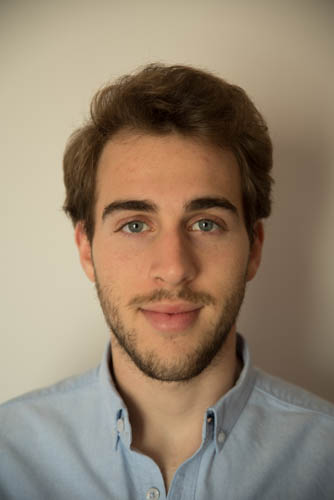
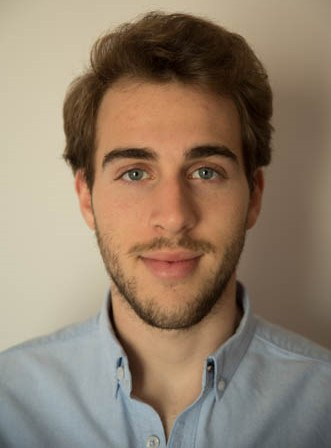
Small Changes

diff --git a/_layouts/default.html b/_layouts/default.html
@@ -18,7 +18,7 @@
         <h1><a href="{{ "/" | absolute_url }}">{{ site.title | default: site.github.repository_name }}</a></h1>
         
         {% if site.profile_img %}
-          <img src="{{site.profile_img | relative_url}}" alt="Profile Image" width="650"/>
+          <img src="{{site.profile_img | relative_url}}" alt="Profile Image" width="550"/>
         {% endif %}
 
         {% if site.github.is_project_page %}
